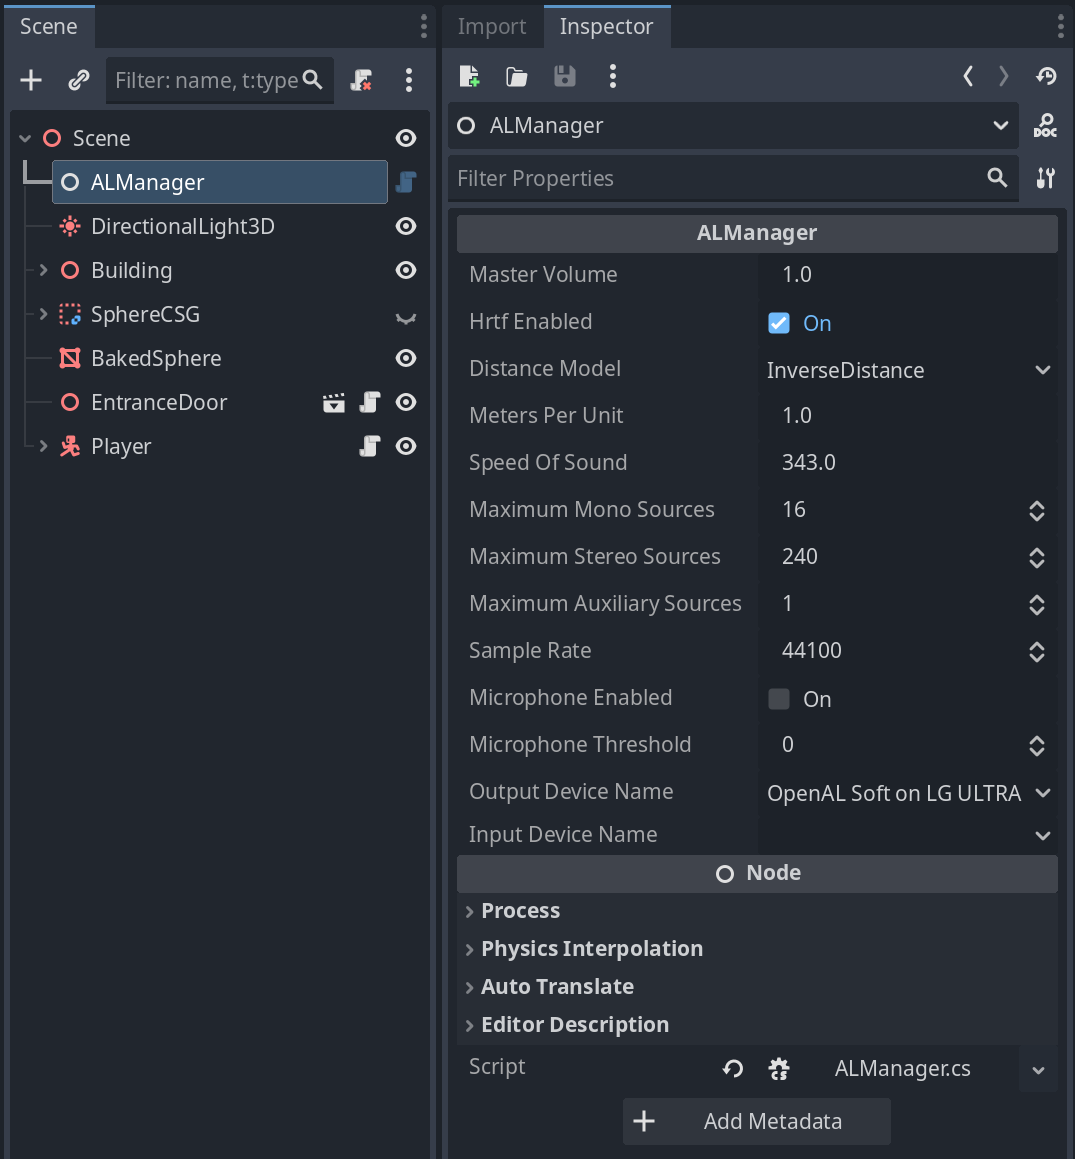
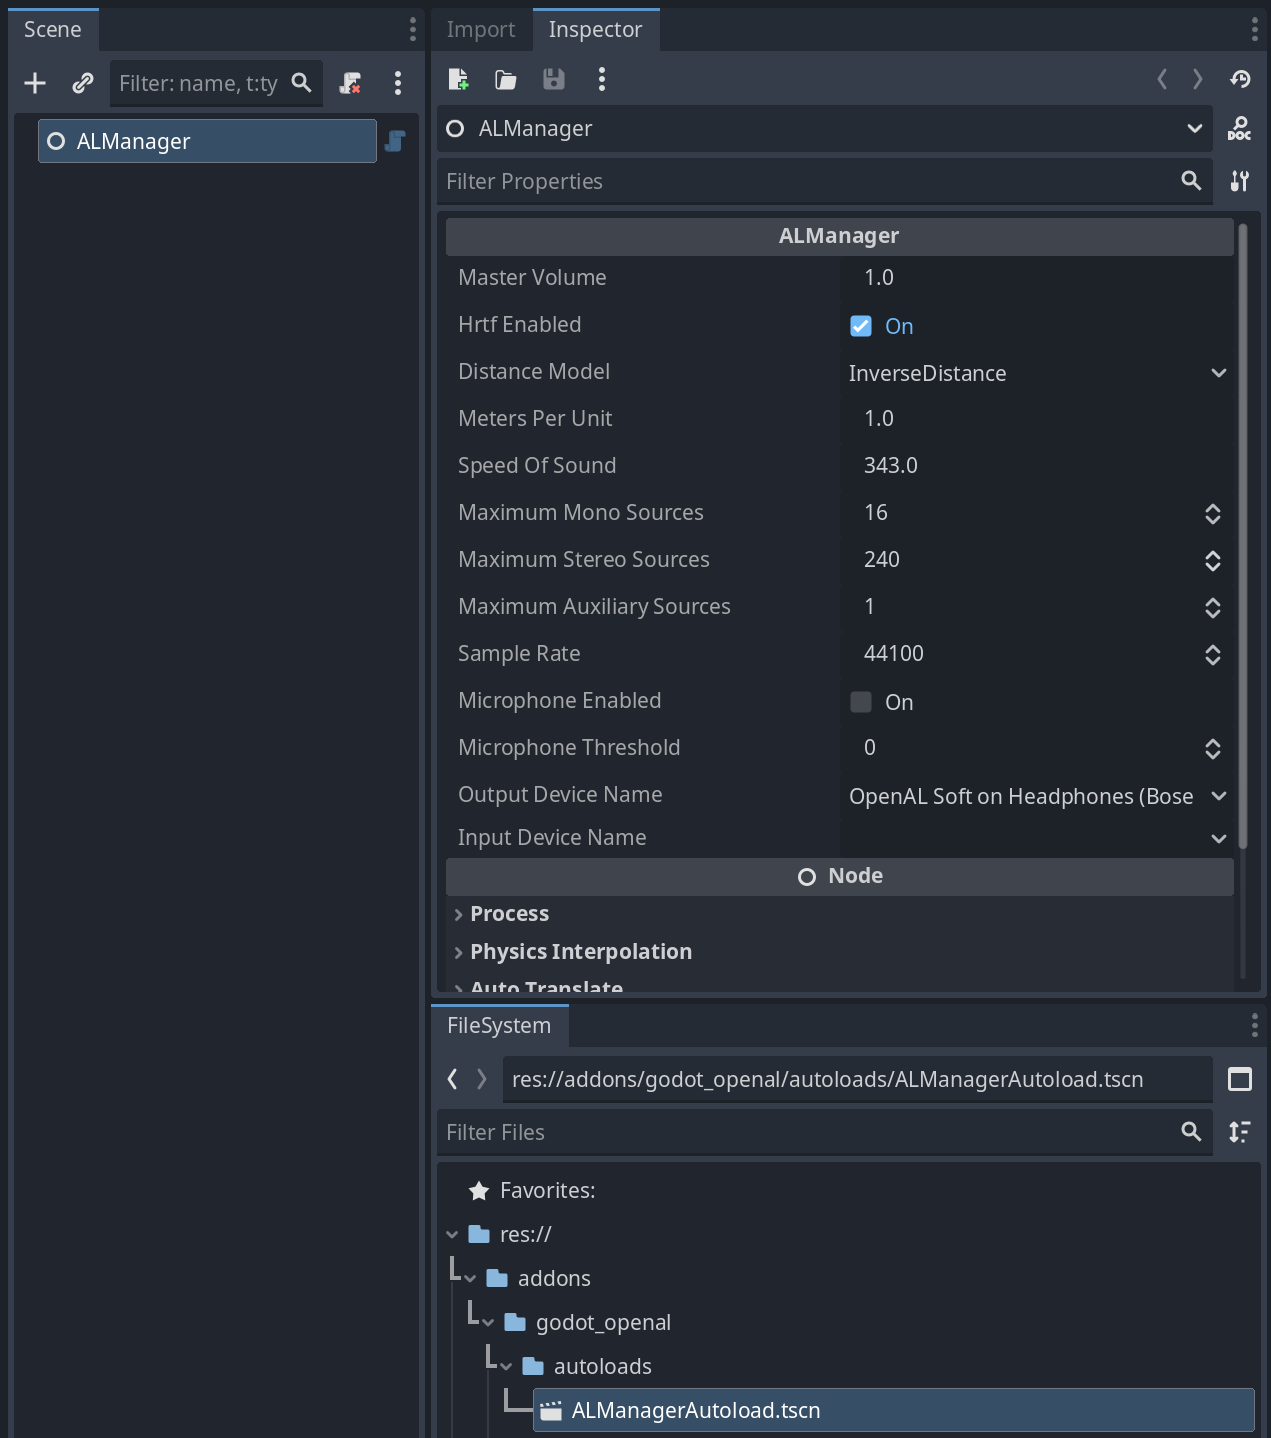
New autoload scene for ALManager.cs. Upgraded openal_soft_bindings to v1.0.7. Improved logging

diff --git a/nodes/ALManager.cs b/nodes/ALManager.cs
@@ -8,6 +8,18 @@ public unsafe partial class ALManager : Node
 
     public override void _Ready()
     {
+        // Log to both - in case we're launched from vs2026 or from the Godot Editor
+        OpenAL.Logger.Log = (s) =>
+        {
+            Console.WriteLine(s);
+            GD.Print(s);
+        };
+        OpenAL.Logger.Error = (s) =>
+        {
+            Console.Error.WriteLine(s);
+            GD.PushError(s);
+        };
+
         // Ensure lists are up to date
         RefreshDeviceLists();
         NotifyPropertyListChanged();

diff --git a/README.md b/README.md
@@ -40,16 +40,17 @@ The plugin setup script in `addons/godot_openal/plugin.gd` will perform some set
 </ItemGroup>
 ```
 
-Second, it will copy `soft_oal.dll` to your project root, which is where your project searches for `.dll` files when it runs.
+Second, it will copy `soft_oal.dll` or `libopenal.so.1` (depending on your operating system) to your project root, which is where your project searches for `.dll` files when it runs.
 
-### 2. Create an ALManager
-In your main scene, add an `ALManager` node:
+### 2. Customise the ALManager
+
+The `addons/godot_openal/autoload/ALManagerAutoload.tscn` scene contains the global `ALManager` node.
 
 ![Scene tree with ALManager child nodes](docs/al_manager_node.png)
 
-The `ALManager` node overrides Godot's inbuilt audio system, and has settings for controlling volume, enabling HRTF, output/input device, etc.
+This `ALManager` node overrides Godot's inbuilt audio system, and has settings for controlling volume, enabling HRTF, output/input device, etc.
 
-To verify your installation worked, the Output Device Name field should be populated in the inspector
+To verify your installation worked, the Output Device Name field should be populated in the inspector.
 
 ### 2. Play a Sound
 
